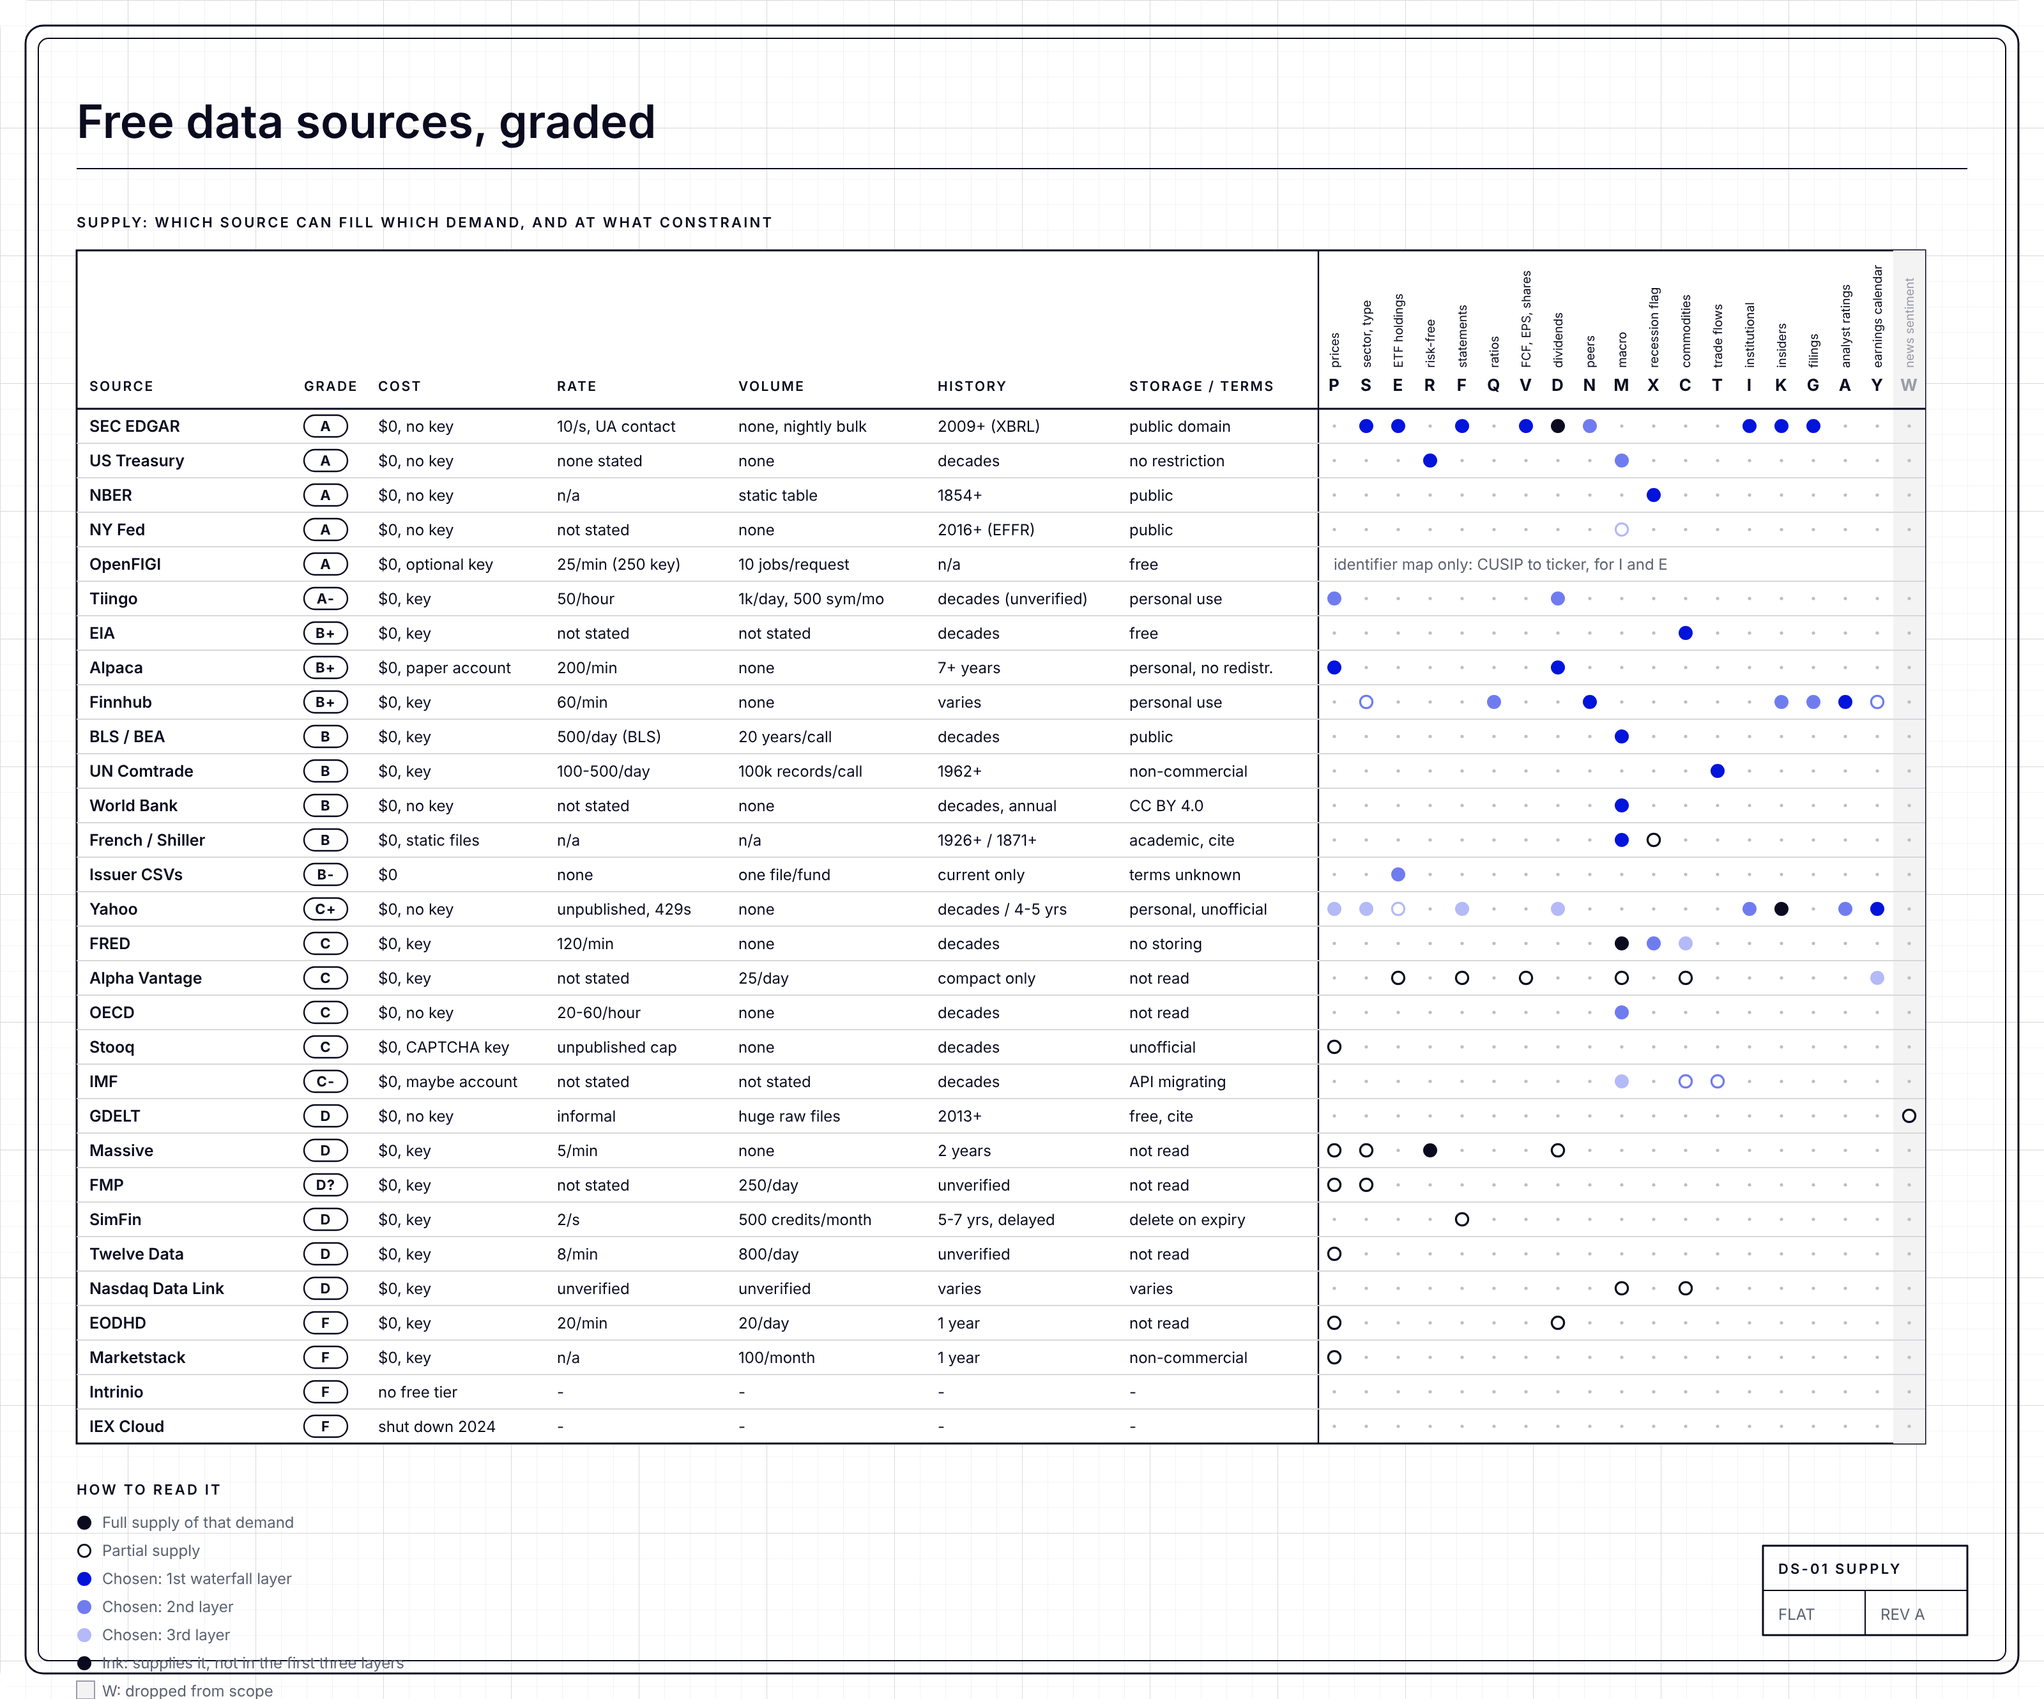
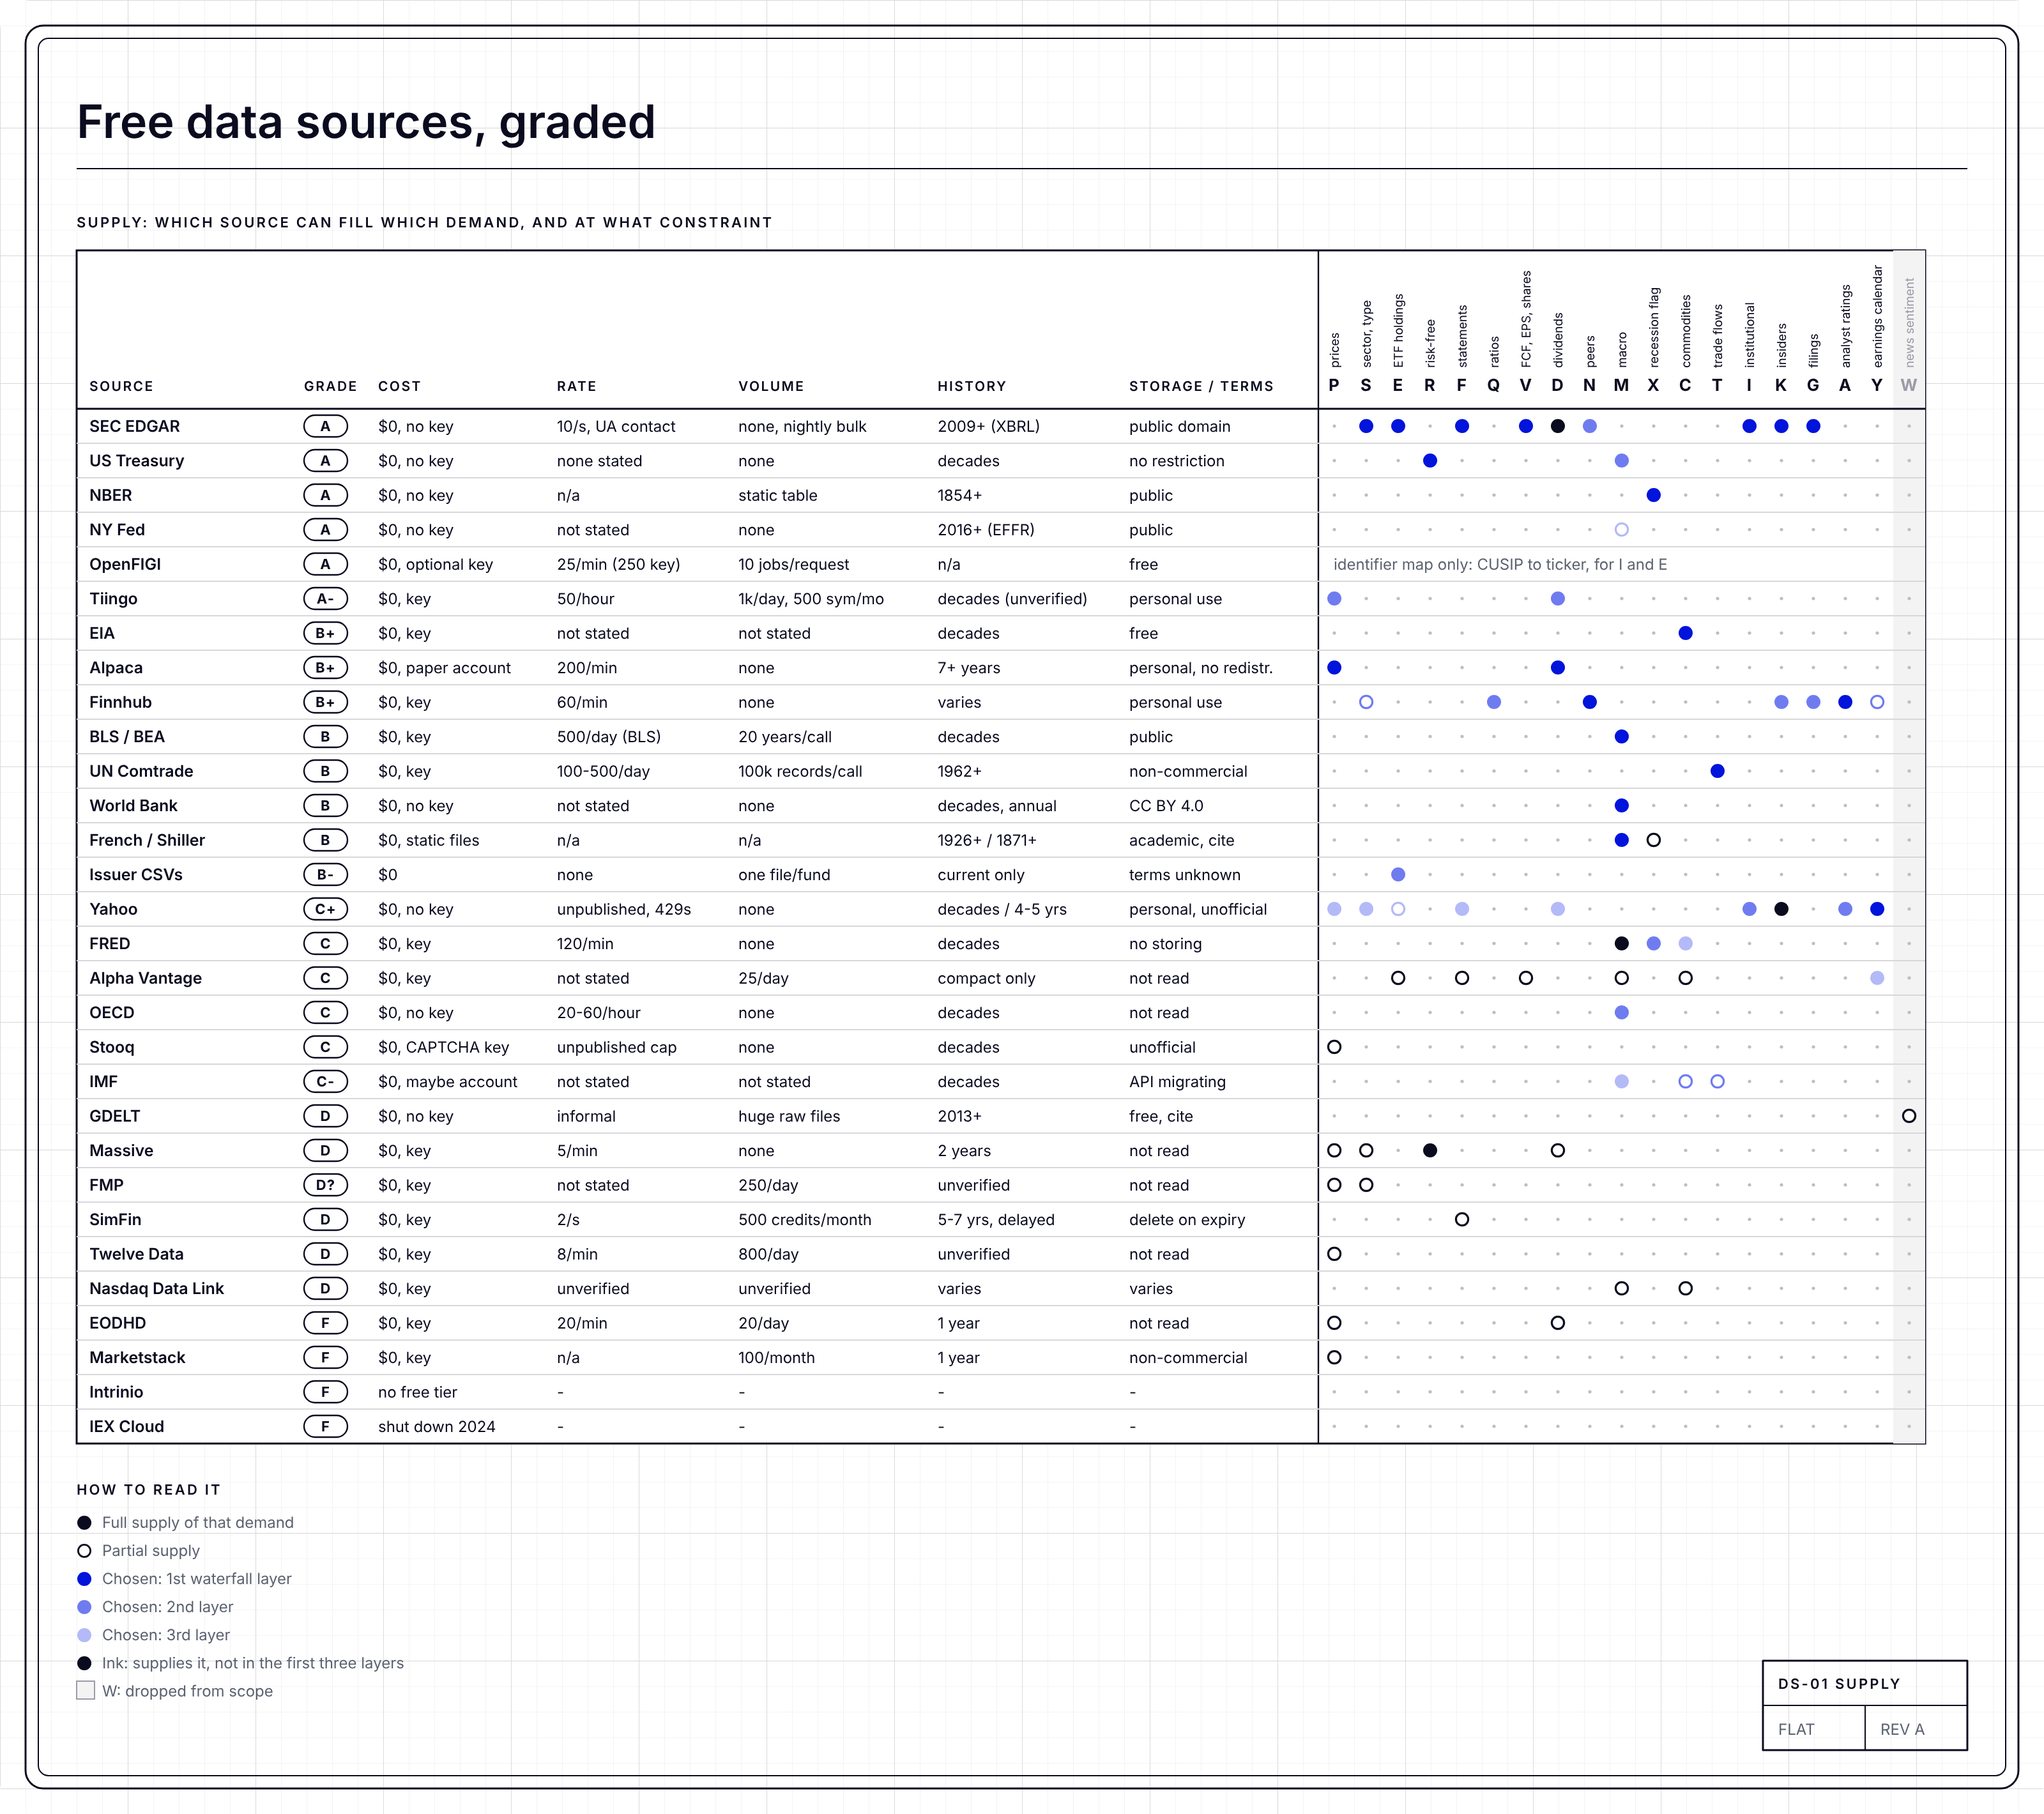
docs: give the supply sheet enough height for its legend

diff --git a/docs/images/build-ds-supply.py b/docs/images/build-ds-supply.py
@@ -2,7 +2,7 @@
 # Upper case = full supply (filled dot), lower case = partial (ring). Dot colour = the waterfall layer the source
 # holds for that demand (docs/data-sources/waterfall.py): 1st dark blue, 2nd lighter, 3rd lightest, else ink.
 import blueprint as bp
-bp.H = 1330
+bp.H = 1420
 from blueprint import ACC, INK
 import os, sys
 import uml
